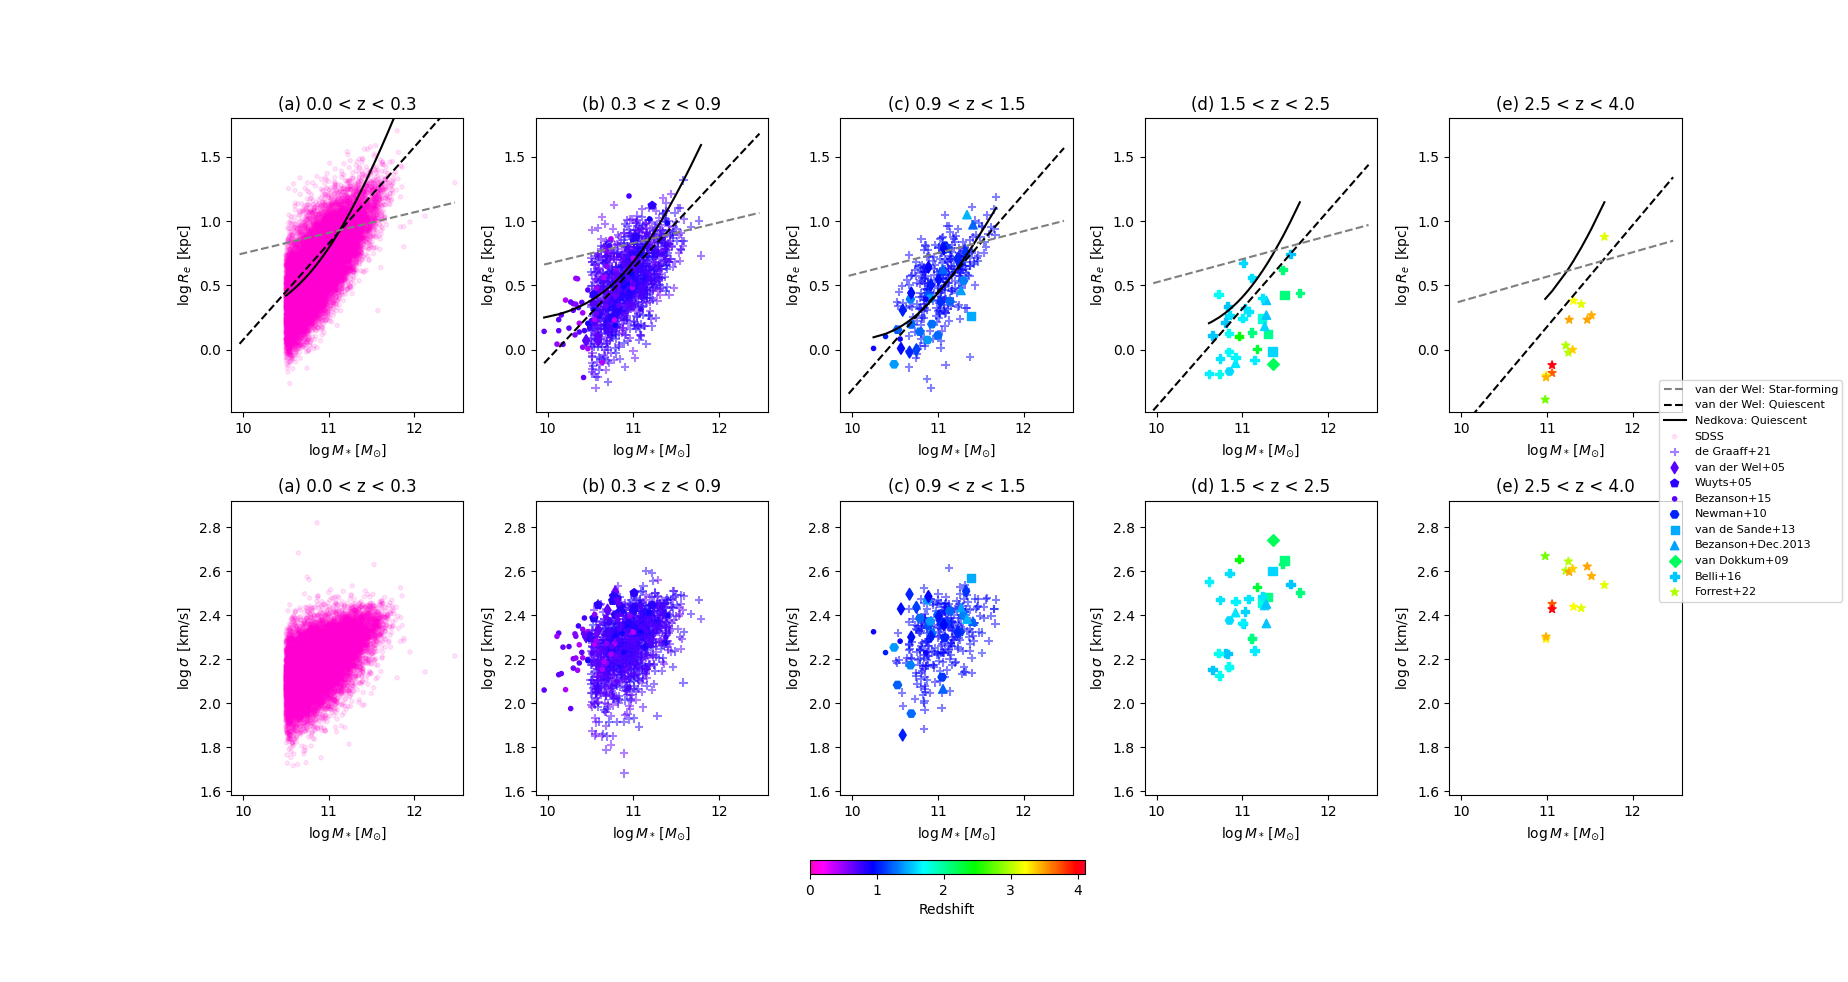
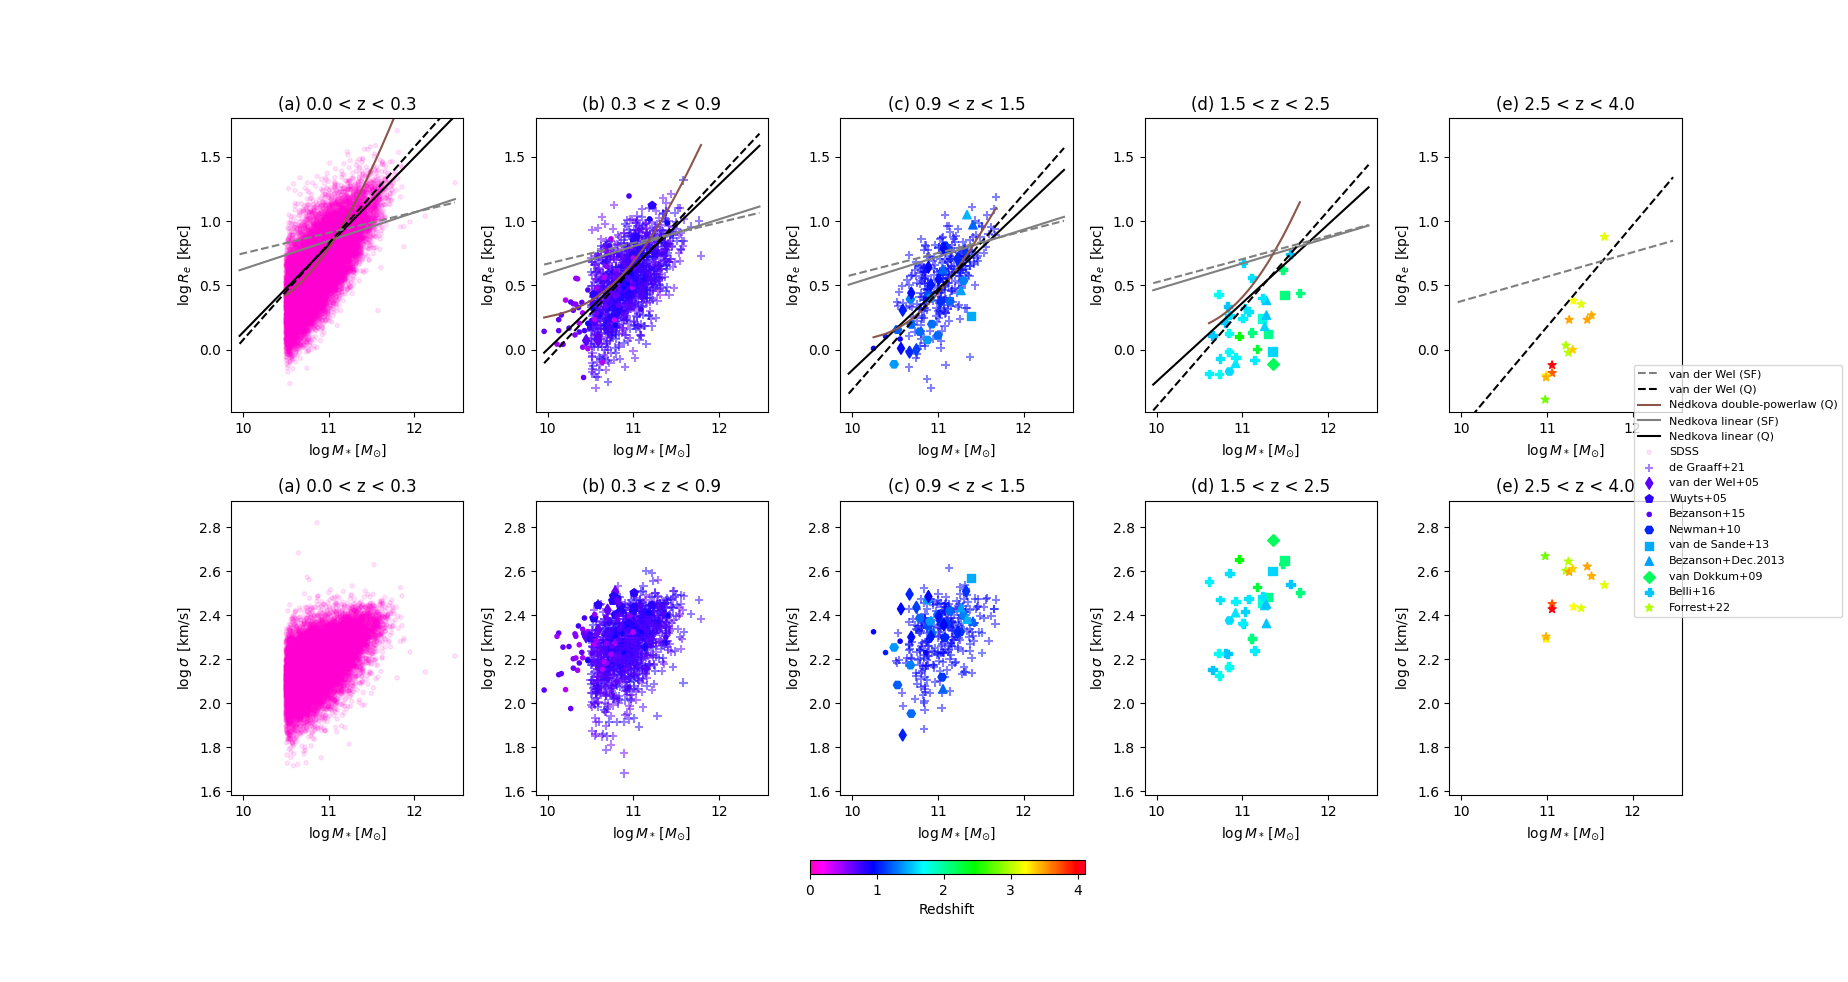
Edited color of powerlaw fits and removed them from high-z subplots.

diff --git a/Mass_Fundamental_Plane/MFP_plot_using_definition.py b/Mass_Fundamental_Plane/MFP_plot_using_definition.py
@@ -411,15 +411,14 @@ def main():
         mass_size_powlaw = lambda alpha, beta, delta, lmass, lnorm: lnorm + alpha*lmass + (beta-alpha)*np.log10(1+(10**(lmass-delta)))
         mass_size_sorted_x_ax = np.sort(all_data_pd["lmass"][inz].to_numpy())
         mass_size_y_ax = np.asarray([mass_size_powlaw(powlaw_q_alpha[i], powlaw_q_beta[i], powlaw_q_delta[i], lmass_val, powlaw_q_norm[i]) for lmass_val in mass_size_sorted_x_ax])
-        if i == 3 or i == 4:
-            print(f"{mass_size_sorted_x_ax[0]}, {mass_size_y_ax[0]}")
-        #logR_M_axis.plot([min_lmass, max_lmass], [mass_size_line(quiescent_logA_vals[i][0], quiescent_B_vals[i][0], min_lmass), mass_size_line(quiescent_logA_vals[i][0], quiescent_B_vals[i][0], max_lmass)], c='k', label="Nedkova: Quiescent")
-        #logR_M_axis.plot([min_lmass, max_lmass], [mass_size_line(sf_logA_vals[i][0], sf_B_vals[i][0], min_lmass), mass_size_line(sf_logA_vals[i][0], sf_B_vals[i][0], max_lmass)], c='tab:gray', label="Nedkova: Star-forming")
         
-        logR_M_axis.plot(mass_size_sorted_x_ax, mass_size_y_ax, c='k', label="Nedkova: Quiescent")
+        if i < 4:
+            logR_M_axis.plot([min_lmass, max_lmass], [mass_size_line(quiescent_logA_vals[i][0], quiescent_B_vals[i][0], min_lmass), mass_size_line(quiescent_logA_vals[i][0], quiescent_B_vals[i][0], max_lmass)], c='k', label="Nedkova linear (Q)")
+            logR_M_axis.plot([min_lmass, max_lmass], [mass_size_line(sf_logA_vals[i][0], sf_B_vals[i][0], min_lmass), mass_size_line(sf_logA_vals[i][0], sf_B_vals[i][0], max_lmass)], c='tab:gray', label="Nedkova linear (SF)")
+            logR_M_axis.plot(mass_size_sorted_x_ax, mass_size_y_ax, c='tab:brown', label="Nedkova double-powerlaw (Q)")
 
-        logR_M_axis.plot([min_lmass, max_lmass], [mass_size_line(quiescent_logA_vals[i][1], quiescent_B_vals[i][1], min_lmass), mass_size_line(quiescent_logA_vals[i][1], quiescent_B_vals[i][1], max_lmass)], c='k', linestyle='dashed', label="van der Wel: Quiescent")
-        logR_M_axis.plot([min_lmass, max_lmass], [mass_size_line(sf_logA_vals[i][1], sf_B_vals[i][1], min_lmass), mass_size_line(sf_logA_vals[i][1], sf_B_vals[i][1], max_lmass)], c='tab:gray', linestyle='dashed',  label="van der Wel: Star-forming")
+        logR_M_axis.plot([min_lmass, max_lmass], [mass_size_line(quiescent_logA_vals[i][1], quiescent_B_vals[i][1], min_lmass), mass_size_line(quiescent_logA_vals[i][1], quiescent_B_vals[i][1], max_lmass)], c='k', linestyle='dashed', label="van der Wel (Q)")
+        logR_M_axis.plot([min_lmass, max_lmass], [mass_size_line(sf_logA_vals[i][1], sf_B_vals[i][1], min_lmass), mass_size_line(sf_logA_vals[i][1], sf_B_vals[i][1], max_lmass)], c='tab:gray', linestyle='dashed',  label="van der Wel (SF)")
 
 
         # MFP_axis.plot([min_x, max_x], [min_x - 4.475 + (0.095 * np.log10(1 + ((zmin + zmax) / 2) - 0.063)), max_x - 4.475 + (0.095 * np.log10(1 + ((zmin + zmax) / 2) - 0.063))], c='tab:orange', label="Bezanson fitted line")
